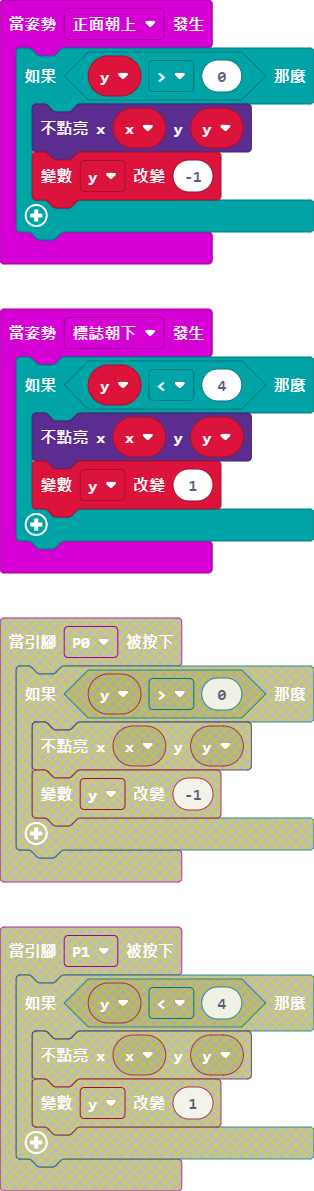
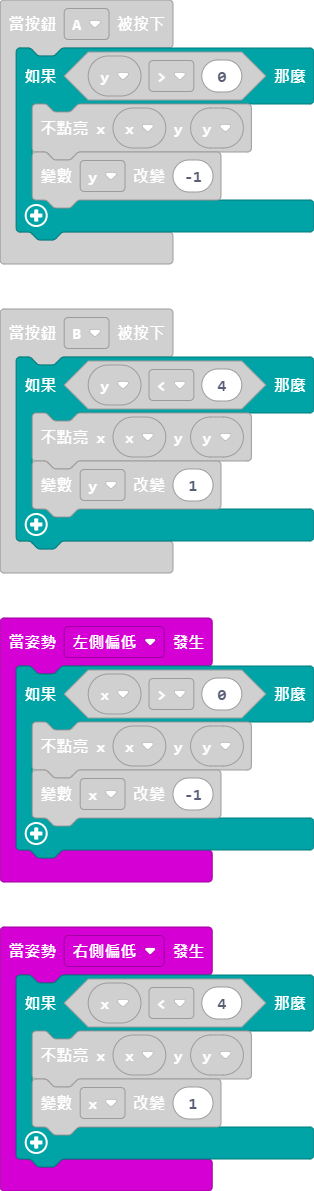
更新 main.blocks, main.ts

diff --git a/main.ts b/main.ts
@@ -1,22 +1,22 @@
-input.onGesture(Gesture.LogoDown, function () {
-    if (y < 4) {
-        led.unplot(x, y)
-        y += 1
-    }
-})
-input.onButtonPressed(Button.A, function () {
+input.onGesture(Gesture.TiltLeft, function () {
     if (x > 0) {
         led.unplot(x, y)
         x += -1
     }
 })
-input.onGesture(Gesture.ScreenUp, function () {
+input.onButtonPressed(Button.A, function () {
     if (y > 0) {
         led.unplot(x, y)
         y += -1
     }
 })
 input.onButtonPressed(Button.B, function () {
+    if (y < 4) {
+        led.unplot(x, y)
+        y += 1
+    }
+})
+input.onGesture(Gesture.TiltRight, function () {
     if (x < 4) {
         led.unplot(x, y)
         x += 1
